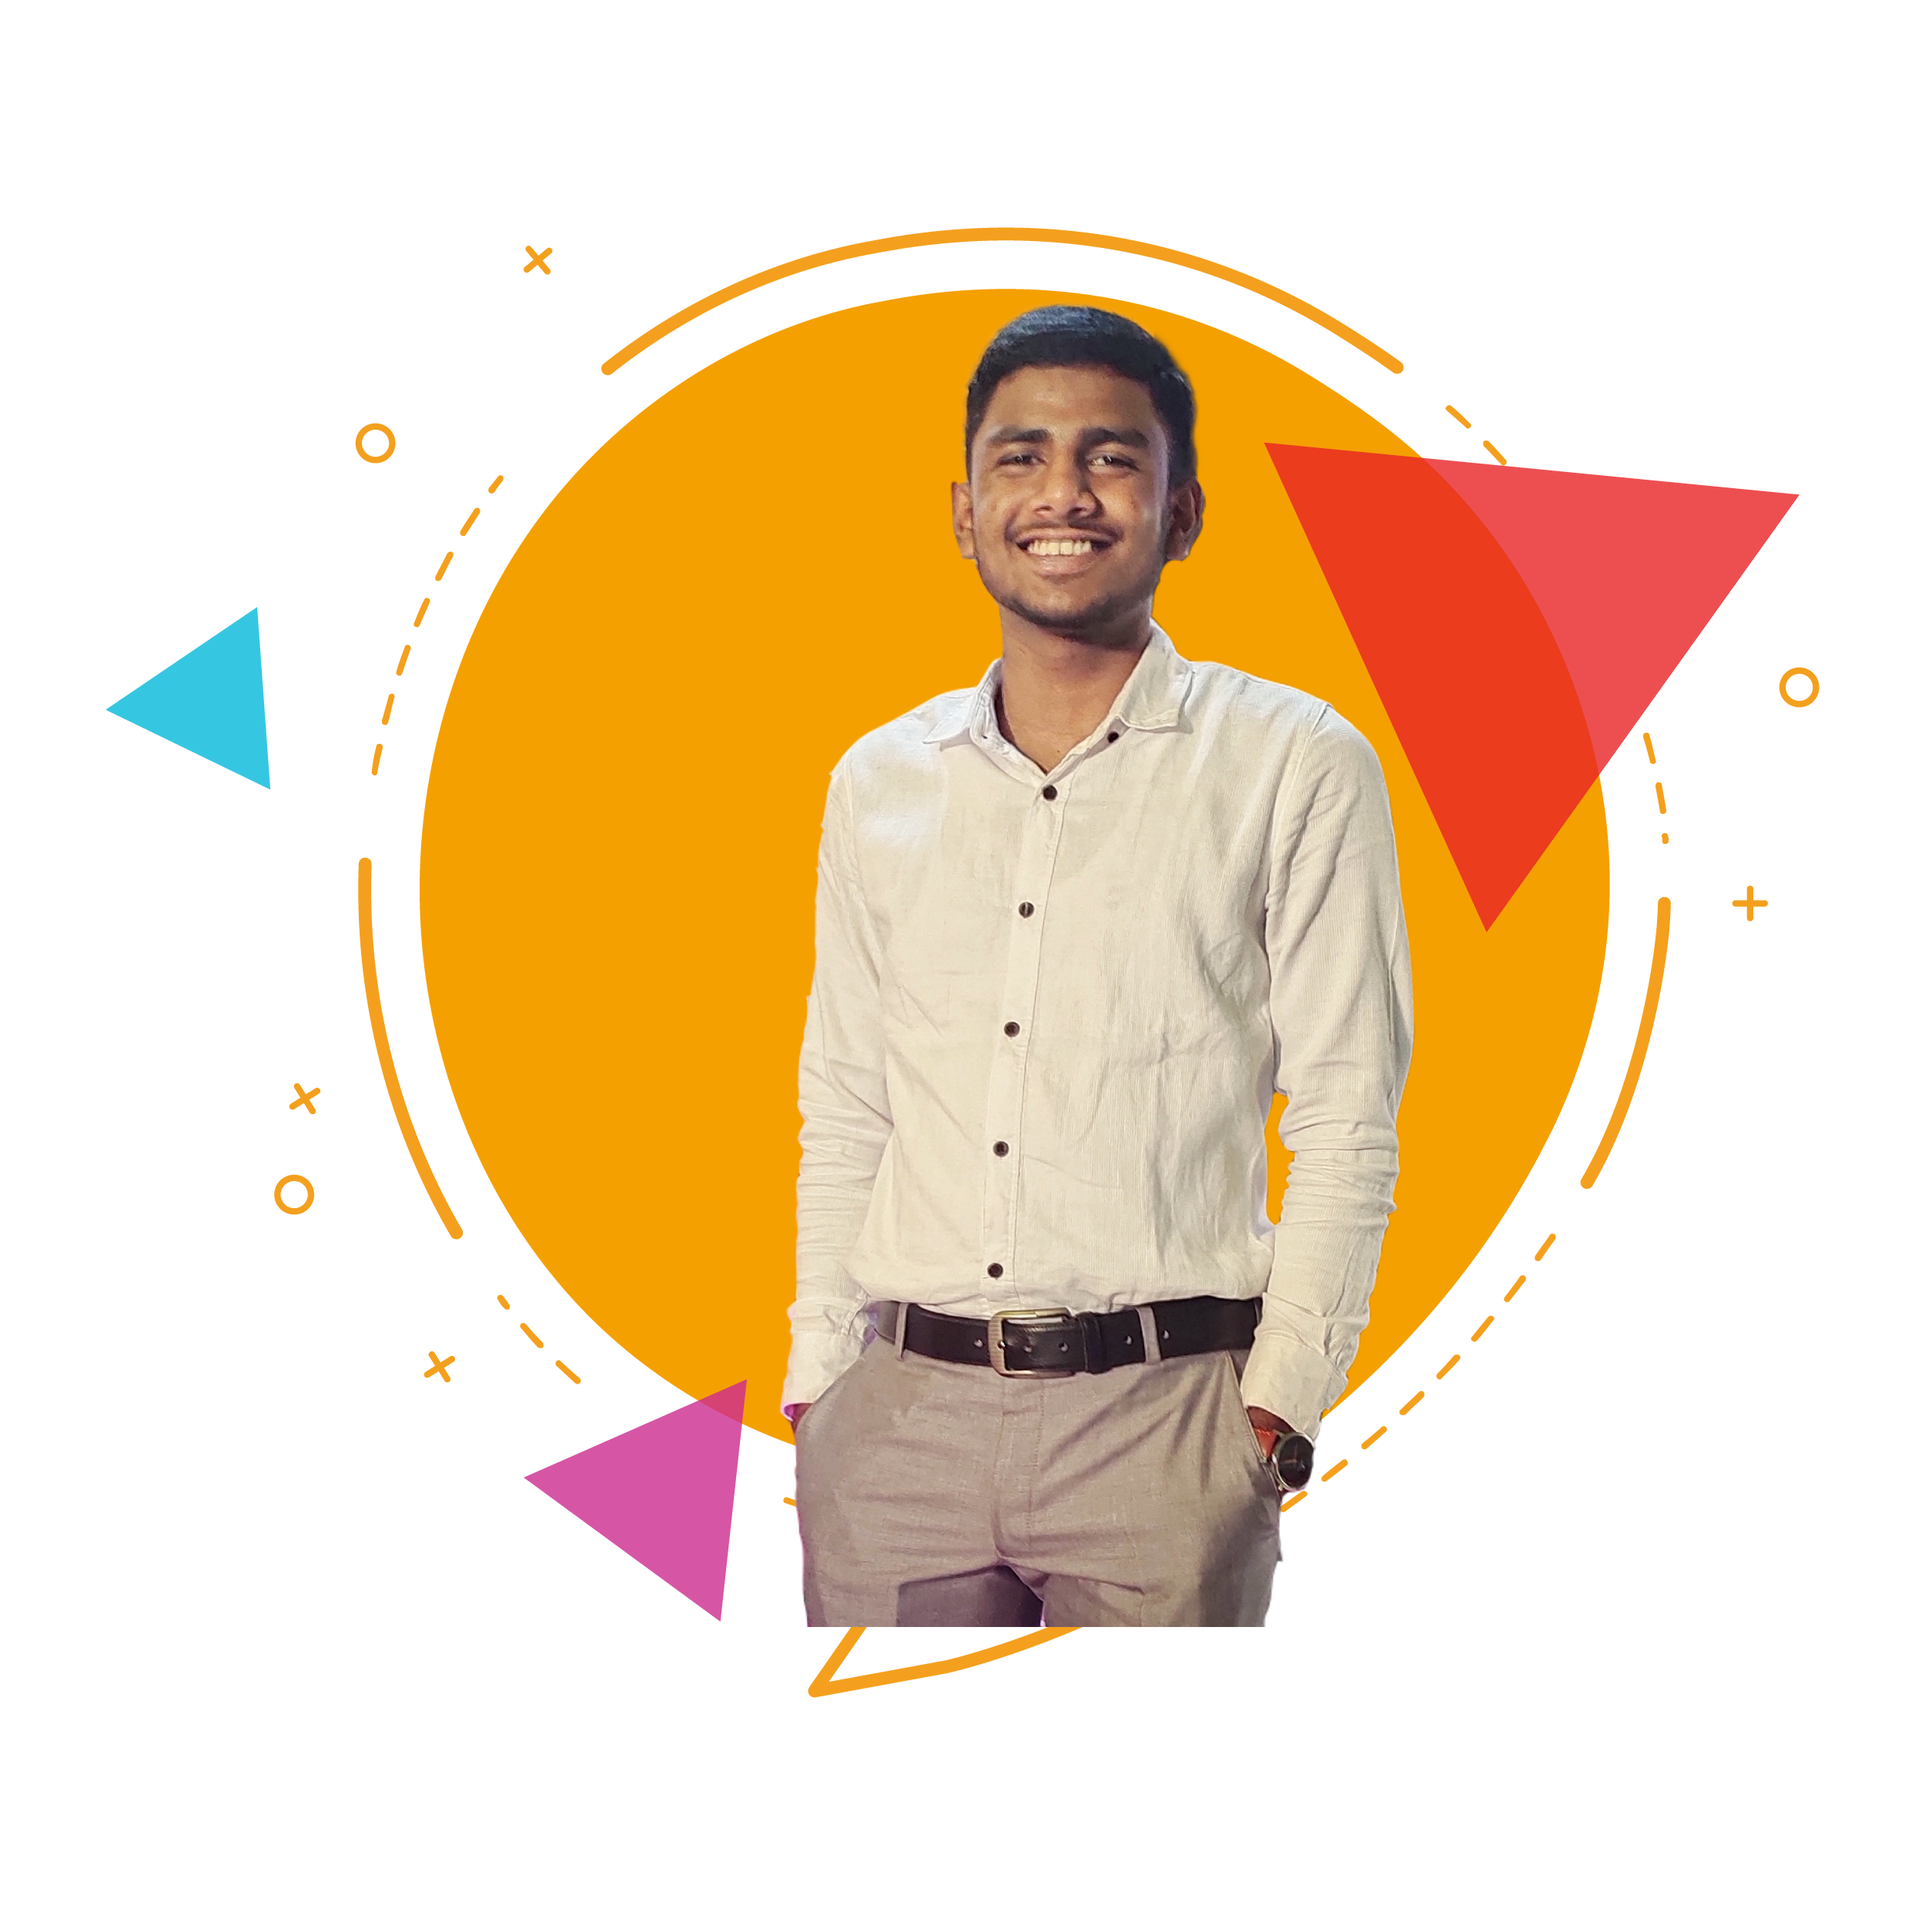
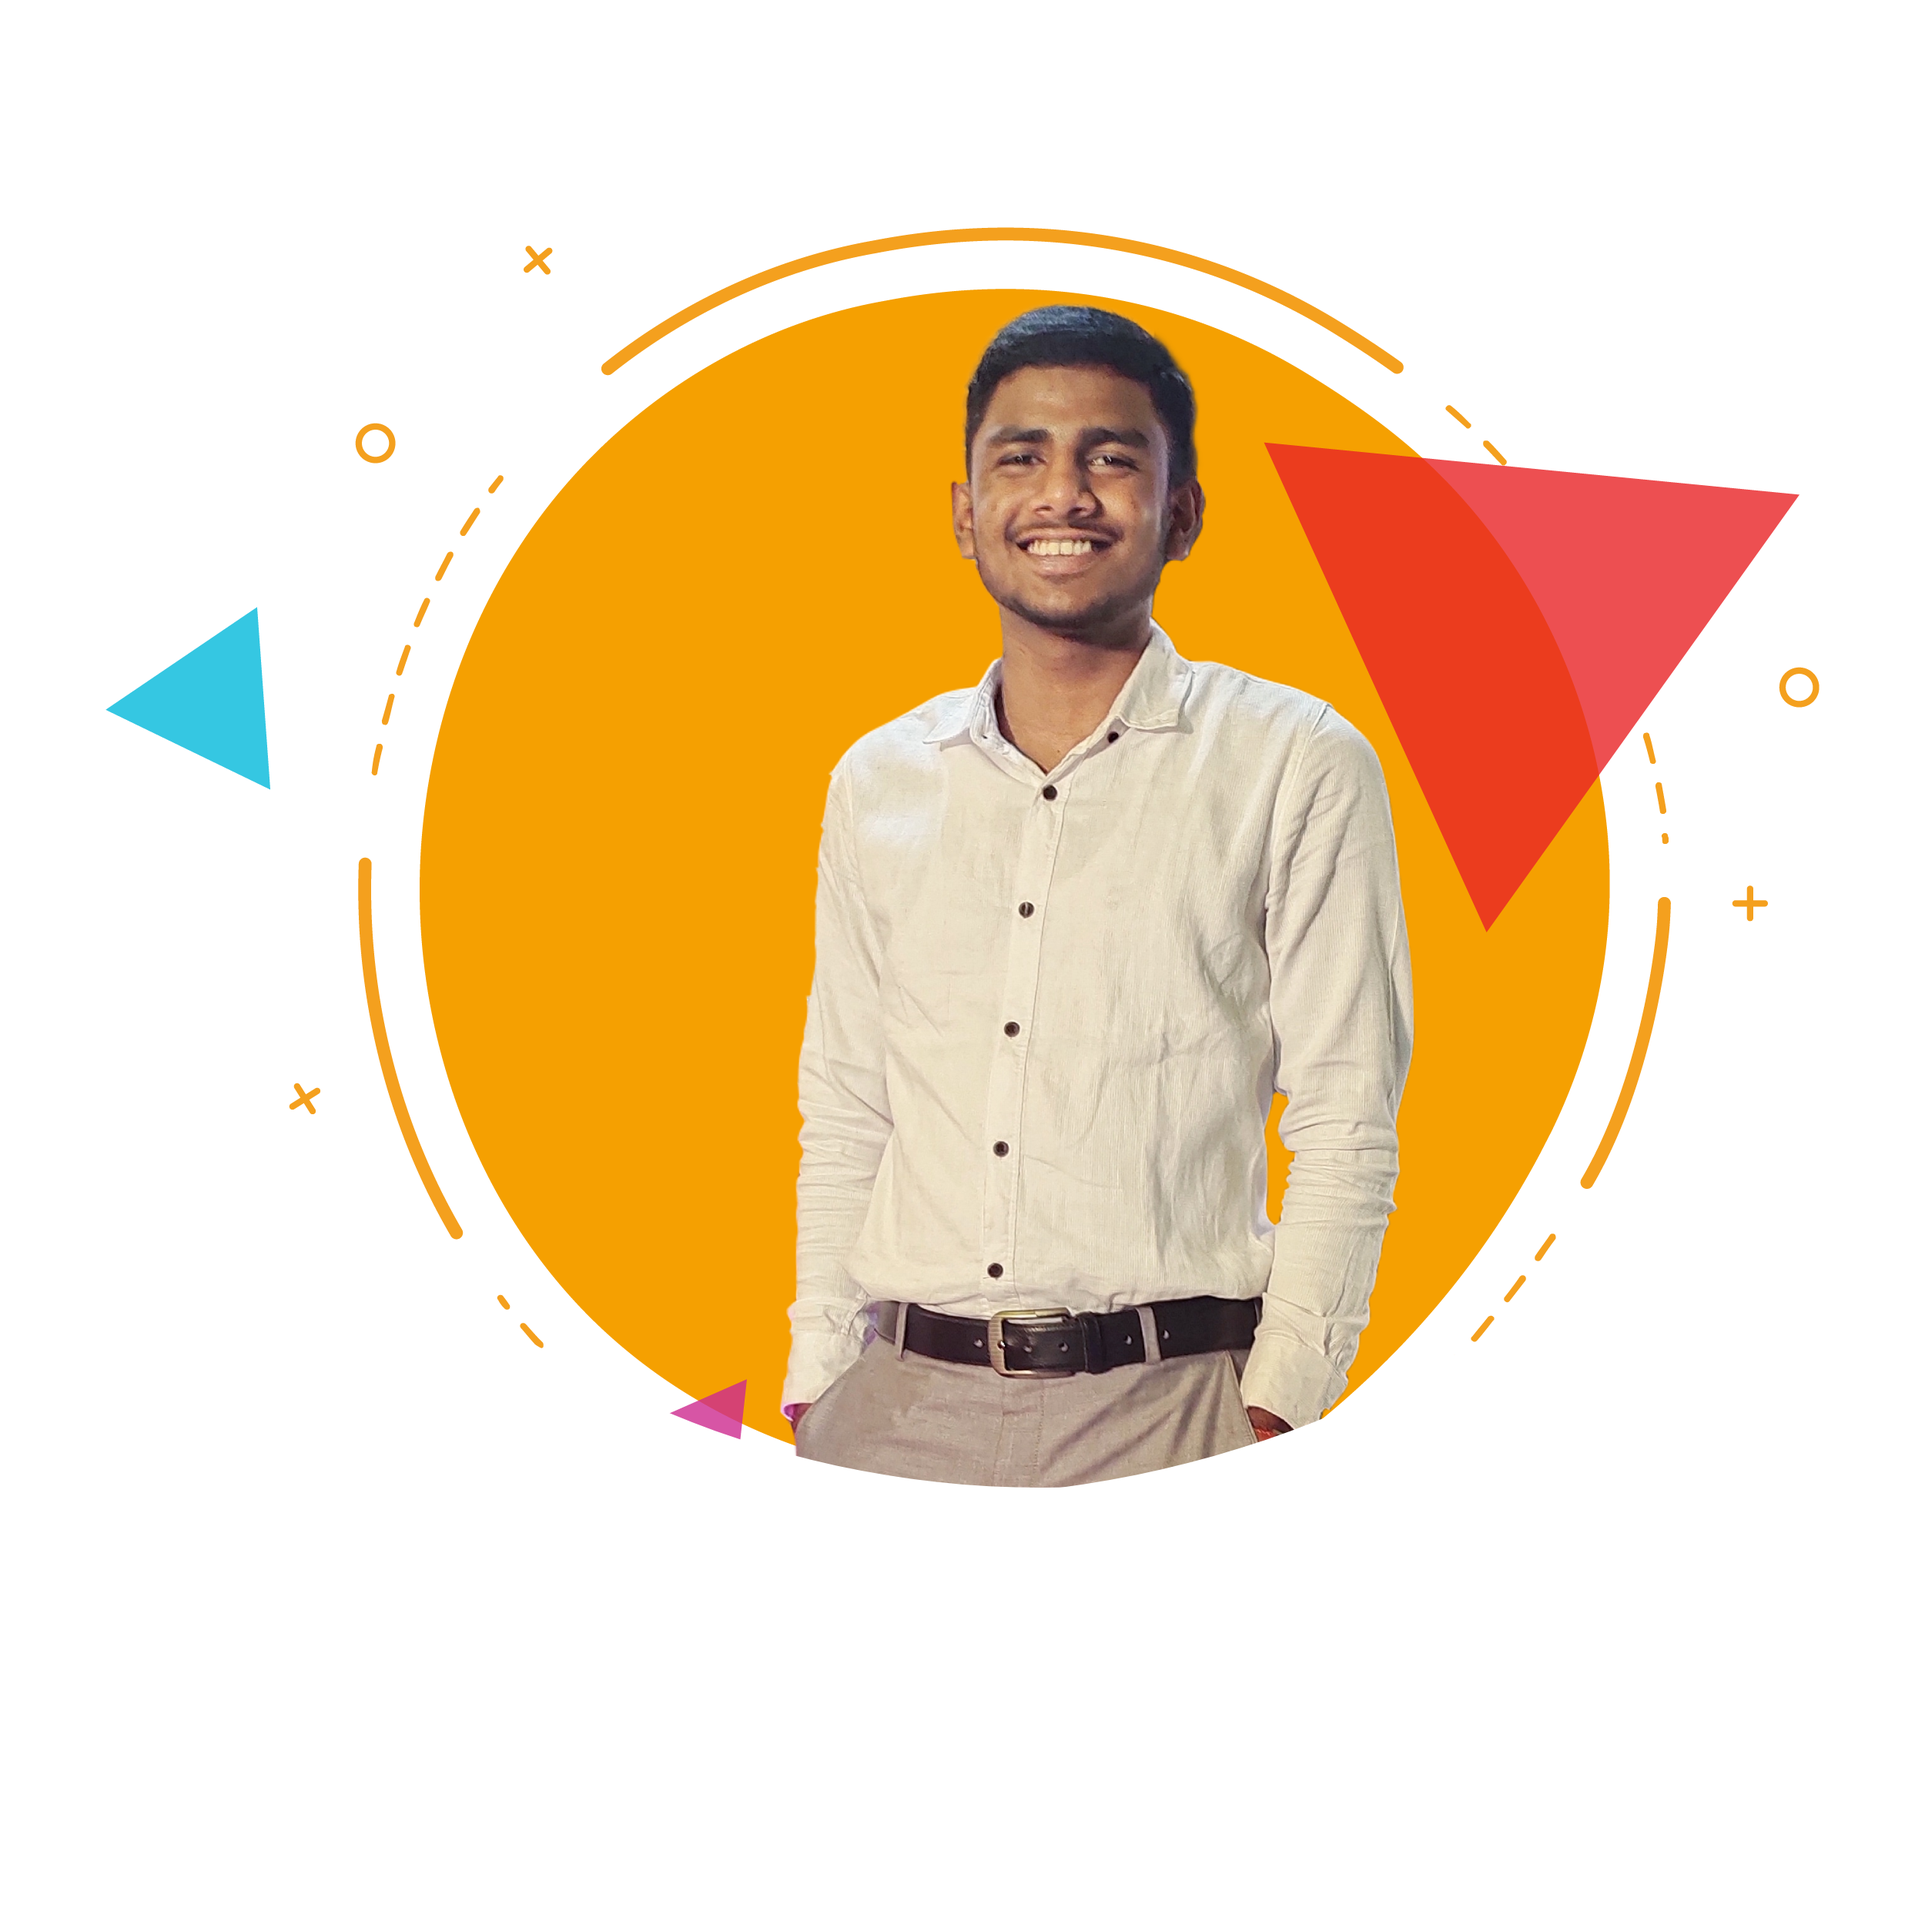
changing pictures

Changed region(s): [[0.2808, 0.7176, 0.6864, 0.9048], [0.2184, 0.6864, 0.2496, 0.7176]]

diff --git a/index.html b/index.html
@@ -41,7 +41,7 @@
 
     <section class="middle-banner">
       <div class="half-width">
-        <img src="images/second.2.png" alt="Here is middle-banner's pic" />
+        <img src="images/image 9 update.png" alt="Here is middle-banner's pic" />
       </div>
       <div class="half-width">
         <h2 class="">
